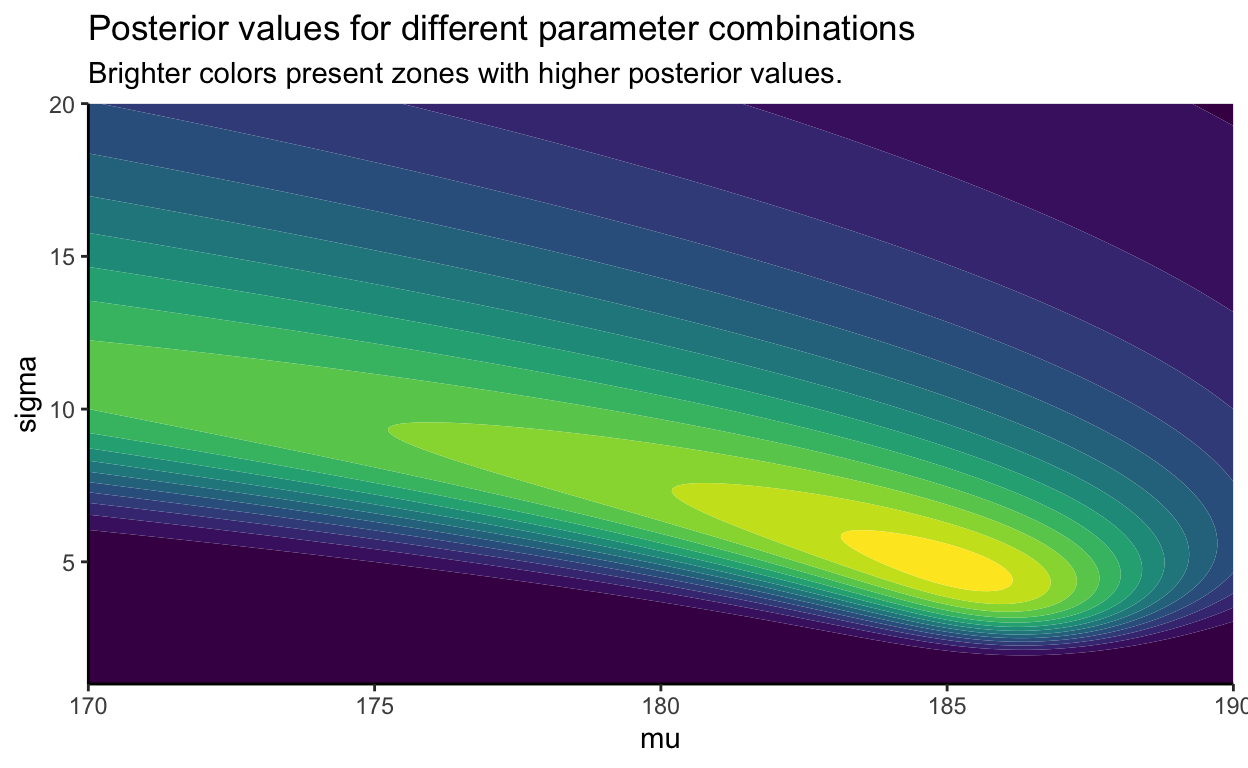
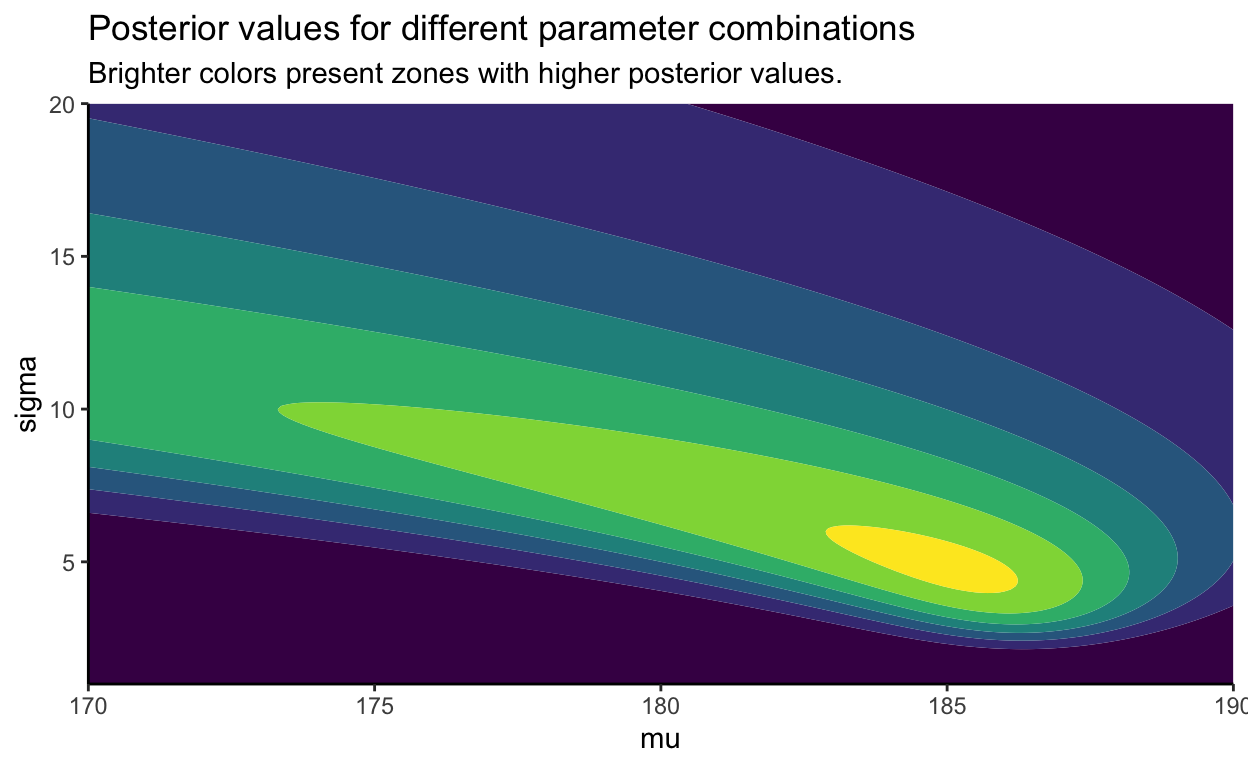
add details section but not finished, TODO titles

diff --git a/_posts/wall-riddle/wall-riddle.html b/_posts/wall-riddle/wall-riddle.html
@@ -115,7 +115,7 @@ code span.wa { color: #545454; font-weight: bold; font-style: italic; } /* Warni
   <!--/radix_placeholder_rmarkdown_metadata-->
   
   <script type="text/json" id="radix-resource-manifest">
-  {"type":"character","attributes":{},"value":["wall-riddle_files/anchor-4.2.2/anchor.min.js","wall-riddle_files/bowser-1.9.3/bowser.min.js","wall-riddle_files/distill-2.2.21/template.v2.js","wall-riddle_files/figure-html5/unnamed-chunk-2-1.png","wall-riddle_files/figure-html5/unnamed-chunk-3-1.png","wall-riddle_files/figure-html5/unnamed-chunk-4-1.png","wall-riddle_files/header-attrs-2.5/header-attrs.js","wall-riddle_files/jquery-1.11.3/jquery.min.js","wall-riddle_files/webcomponents-2.0.0/webcomponents.js"]}
+  {"type":"character","attributes":{},"value":["wall-riddle_files/anchor-4.2.2/anchor.min.js","wall-riddle_files/bowser-1.9.3/bowser.min.js","wall-riddle_files/distill-2.2.21/template.v2.js","wall-riddle_files/figure-html5/unnamed-chunk-2-1.png","wall-riddle_files/figure-html5/unnamed-chunk-3-1.png","wall-riddle_files/figure-html5/unnamed-chunk-4-1.png","wall-riddle_files/figure-html5/unnamed-chunk-5-1.png","wall-riddle_files/header-attrs-2.5/header-attrs.js","wall-riddle_files/jquery-1.11.3/jquery.min.js","wall-riddle_files/webcomponents-2.0.0/webcomponents.js"]}
   </script>
   <!--radix_placeholder_navigation_in_header-->
   <!--/radix_placeholder_navigation_in_header-->
@@ -1476,10 +1476,10 @@ p(h_i | \mu, \sigma) = \frac{dnorm(h_i, \mu, \sigma)}{pnorm(h_w, \mu, \sigma)}
 <div class="layout-chunk" data-layout="l-body">
 <div class="sourceCode">
 <pre><code><span class='va'>calc_likelihood</span> <span class='op'>&lt;-</span> <span class='kw'>function</span><span class='op'>(</span><span class='va'>mu</span>, <span class='va'>sigma</span>, <span class='va'>observations</span>, <span class='va'>wall</span><span class='op'>)</span> <span class='op'>{</span>
-  <span class='fu'><a href='https://rdrr.io/r/base/prod.html'>prod</a></span><span class='op'>(</span>
-    <span class='fu'><a href='https://rdrr.io/r/stats/Normal.html'>dnorm</a></span><span class='op'>(</span><span class='va'>observations</span>, <span class='va'>mu</span>, <span class='va'>sigma</span><span class='op'>)</span> <span class='op'>/</span>
-      <span class='fu'><a href='https://rdrr.io/r/stats/Normal.html'>pnorm</a></span><span class='op'>(</span><span class='va'>wall</span>, <span class='va'>mu</span>, <span class='va'>sigma</span>, lower.tail <span class='op'>=</span> <span class='cn'>FALSE</span><span class='op'>)</span>
-  <span class='op'>)</span>
+  <span class='fu'><a href='https://rdrr.io/r/base/Log.html'>exp</a></span><span class='op'>(</span><span class='fu'><a href='https://rdrr.io/r/base/sum.html'>sum</a></span><span class='op'>(</span>
+    <span class='fu'><a href='https://rdrr.io/r/stats/Normal.html'>dnorm</a></span><span class='op'>(</span><span class='va'>observations</span>, <span class='va'>mu</span>, <span class='va'>sigma</span>, log <span class='op'>=</span> <span class='cn'>TRUE</span><span class='op'>)</span> <span class='op'>-</span>
+      <span class='fu'><a href='https://rdrr.io/r/stats/Normal.html'>pnorm</a></span><span class='op'>(</span><span class='va'>wall</span>, <span class='va'>mu</span>, <span class='va'>sigma</span>, lower.tail <span class='op'>=</span> <span class='cn'>FALSE</span>, log.p <span class='op'>=</span> <span class='cn'>TRUE</span><span class='op'>)</span>
+  <span class='op'>)</span><span class='op'>)</span>
 <span class='op'>}</span>
 </code></pre>
 </div>
@@ -1597,6 +1597,14 @@ p(h_i | \mu, \sigma) = \frac{dnorm(h_i, \mu, \sigma)}{pnorm(h_w, \mu, \sigma)}
 <div class="layout-chunk" data-layout="l-body">
 <p><img src="wall-riddle_files/figure-html5/unnamed-chunk-4-1.png" width="624" /></p>
 </div>
+<details>
+<summary>
+Have additional thoughts about the shape?
+</summary>
+<div class="layout-chunk" data-layout="l-body">
+<p><img src="wall-riddle_files/figure-html5/unnamed-chunk-5-1.png" width="624" /></p>
+</div>
+</details>
 <h2 id="use-cases">Use cases</h2>
 <p>About another such example, getting customer complaints only when they’ve been waiting for a long time, <a href="https://youtu.be/dE5j6NW-Kzg?t=721">talked Vincent on PyData</a>. He also explains the riddle I’ve solved<a href="#fn4" class="footnote-ref" id="fnref4" role="doc-noteref"><sup>4</sup></a> but not the solution.</p>
 <p>A lot of data we collect is biased and sometimes we know how it is biased. Luckily - and skillfully - we can make up for that.</p>

diff --git a/_site/posts/wall-riddle/index.html b/_site/posts/wall-riddle/index.html
@@ -125,7 +125,7 @@ code span.wa { color: #545454; font-weight: bold; font-style: italic; } /* Warni
 <!--/radix_placeholder_rmarkdown_metadata-->
   
   <script type="text/json" id="radix-resource-manifest">
-  {"type":"character","attributes":{},"value":["wall-riddle_files/anchor-4.2.2/anchor.min.js","wall-riddle_files/bowser-1.9.3/bowser.min.js","wall-riddle_files/distill-2.2.21/template.v2.js","wall-riddle_files/figure-html5/unnamed-chunk-2-1.png","wall-riddle_files/figure-html5/unnamed-chunk-3-1.png","wall-riddle_files/figure-html5/unnamed-chunk-4-1.png","wall-riddle_files/header-attrs-2.5/header-attrs.js","wall-riddle_files/jquery-1.11.3/jquery.min.js","wall-riddle_files/webcomponents-2.0.0/webcomponents.js"]}
+  {"type":"character","attributes":{},"value":["wall-riddle_files/anchor-4.2.2/anchor.min.js","wall-riddle_files/bowser-1.9.3/bowser.min.js","wall-riddle_files/distill-2.2.21/template.v2.js","wall-riddle_files/figure-html5/unnamed-chunk-2-1.png","wall-riddle_files/figure-html5/unnamed-chunk-3-1.png","wall-riddle_files/figure-html5/unnamed-chunk-4-1.png","wall-riddle_files/figure-html5/unnamed-chunk-5-1.png","wall-riddle_files/header-attrs-2.5/header-attrs.js","wall-riddle_files/jquery-1.11.3/jquery.min.js","wall-riddle_files/webcomponents-2.0.0/webcomponents.js"]}
   </script>
   <!--radix_placeholder_navigation_in_header-->
 <meta name="distill:offset" content="../.."/>
@@ -1872,10 +1872,10 @@ p(h_i | \mu, \sigma) = \frac{dnorm(h_i, \mu, \sigma)}{pnorm(h_w, \mu, \sigma)}
 <div class="layout-chunk" data-layout="l-body">
 <div class="sourceCode">
 <pre><code><span class='va'>calc_likelihood</span> <span class='op'>&lt;-</span> <span class='kw'>function</span><span class='op'>(</span><span class='va'>mu</span>, <span class='va'>sigma</span>, <span class='va'>observations</span>, <span class='va'>wall</span><span class='op'>)</span> <span class='op'>{</span>
-  <span class='fu'><a href='https://rdrr.io/r/base/prod.html'>prod</a></span><span class='op'>(</span>
-    <span class='fu'><a href='https://rdrr.io/r/stats/Normal.html'>dnorm</a></span><span class='op'>(</span><span class='va'>observations</span>, <span class='va'>mu</span>, <span class='va'>sigma</span><span class='op'>)</span> <span class='op'>/</span>
-      <span class='fu'><a href='https://rdrr.io/r/stats/Normal.html'>pnorm</a></span><span class='op'>(</span><span class='va'>wall</span>, <span class='va'>mu</span>, <span class='va'>sigma</span>, lower.tail <span class='op'>=</span> <span class='cn'>FALSE</span><span class='op'>)</span>
-  <span class='op'>)</span>
+  <span class='fu'><a href='https://rdrr.io/r/base/Log.html'>exp</a></span><span class='op'>(</span><span class='fu'><a href='https://rdrr.io/r/base/sum.html'>sum</a></span><span class='op'>(</span>
+    <span class='fu'><a href='https://rdrr.io/r/stats/Normal.html'>dnorm</a></span><span class='op'>(</span><span class='va'>observations</span>, <span class='va'>mu</span>, <span class='va'>sigma</span>, log <span class='op'>=</span> <span class='cn'>TRUE</span><span class='op'>)</span> <span class='op'>-</span>
+      <span class='fu'><a href='https://rdrr.io/r/stats/Normal.html'>pnorm</a></span><span class='op'>(</span><span class='va'>wall</span>, <span class='va'>mu</span>, <span class='va'>sigma</span>, lower.tail <span class='op'>=</span> <span class='cn'>FALSE</span>, log.p <span class='op'>=</span> <span class='cn'>TRUE</span><span class='op'>)</span>
+  <span class='op'>)</span><span class='op'>)</span>
 <span class='op'>}</span>
 </code></pre>
 </div>
@@ -1993,6 +1993,14 @@ p(h_i | \mu, \sigma) = \frac{dnorm(h_i, \mu, \sigma)}{pnorm(h_w, \mu, \sigma)}
 <div class="layout-chunk" data-layout="l-body">
 <p><img src="wall-riddle_files/figure-html5/unnamed-chunk-4-1.png" width="624" /></p>
 </div>
+<details>
+<summary>
+Have additional thoughts about the shape?
+</summary>
+<div class="layout-chunk" data-layout="l-body">
+<p><img src="wall-riddle_files/figure-html5/unnamed-chunk-5-1.png" width="624" /></p>
+</div>
+</details>
 <h2 id="use-cases">Use cases</h2>
 <p>About another such example, getting customer complaints only when they’ve been waiting for a long time, <a href="https://youtu.be/dE5j6NW-Kzg?t=721">talked Vincent on PyData</a>. He also explains the riddle I’ve solved<a href="#fn4" class="footnote-ref" id="fnref4" role="doc-noteref"><sup>4</sup></a> but not the solution.</p>
 <p>A lot of data we collect is biased and sometimes we know how it is biased. Luckily - and skillfully - we can make up for that.</p>
